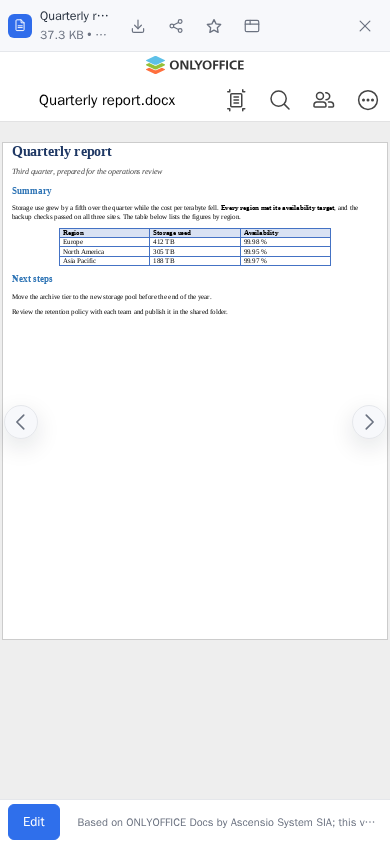
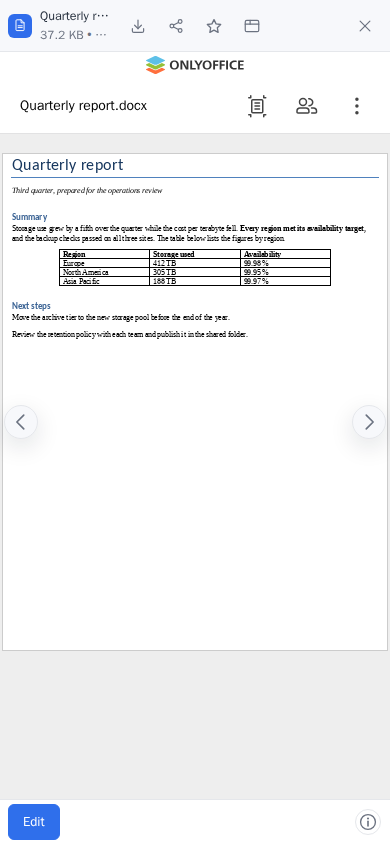
seed(office-editor): the pictures of 0.5.2, with "About this editor" in place of the line under the editor
Five of the listing's seven pictures showed the legal line under the
editor, which the Office editor's 0.5.2 replaces with a small round
"About this editor" button in the corner of the editor (the notice
behind it, whole). Taken again on 2026-11-11 in a throwaway filex
(ghcr.io/brf-tech/filex:slim-v0.59.1, SQLite, a local storage) with the
0.5.2 tree's bundle installed by upload, headless Chromium (Playwright
1.65.0), English, the same names, sizes and framing: editing,
presentation, spreadsheet-dark (1440x900), phone-reading and
phone-editing (390x844). Print and New document show no part of the
editor's foot and stay.

The description's notice says the version may have been modified and
where the app shows the notice and its source link.

diff --git a/seed/official/filex-office-editor/description.md b/seed/official/filex-office-editor/description.md
@@ -54,9 +54,11 @@ Needs filex 0.57 or later; on filex 0.56 the store offers 0.3.1, which edits the
 OpenDocument kinds and brings no engine, and on filex 0.55 0.1.1. The app's own texts are in
 English and Turkish; the editor speaks the languages ONLYOFFICE ships.
 
-Based on ONLYOFFICE Docs by Ascensio System SIA. ONLYOFFICE® and ONLYOFFICE Docs™ are registered
-trademarks or trademarks of Ascensio System SIA; this app is not affiliated with or endorsed by
-Ascensio System SIA. The app is free software under the GNU AGPL version 3 or later.
+Based on ONLYOFFICE Docs by Ascensio System SIA; this version may have been modified.
+ONLYOFFICE® and ONLYOFFICE Docs™ are registered trademarks or trademarks of Ascensio System SIA;
+this app is not affiliated with or endorsed by Ascensio System SIA. The app is free software under
+the GNU AGPL version 3 or later; in the editor, **About this editor** (the ⓘ in its corner) shows
+this notice and the link to the source of the version you run.
 
 Source and issues:
 [github.com/BRF-Tech/filex-office-editor](https://github.com/BRF-Tech/filex-office-editor).
